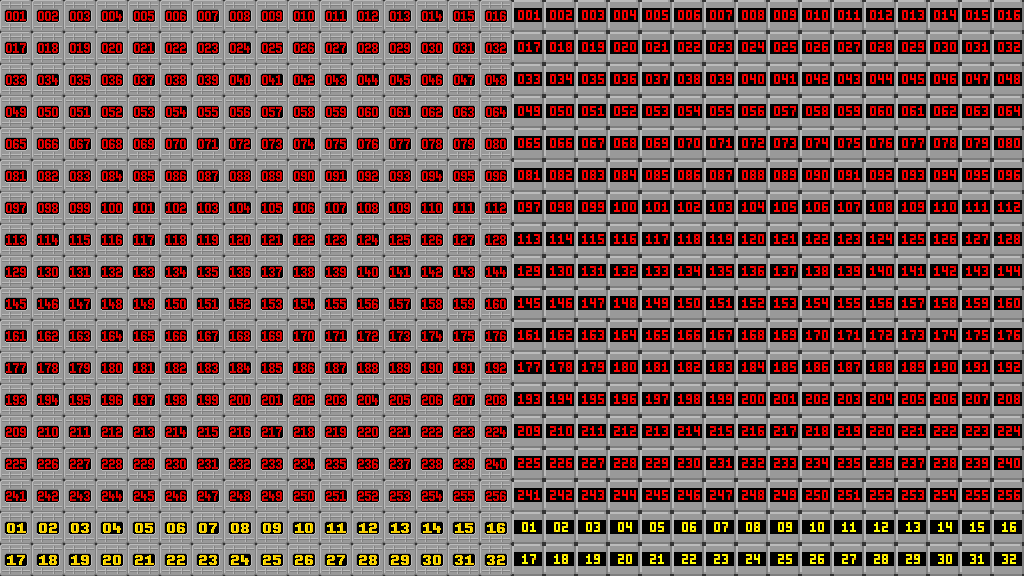
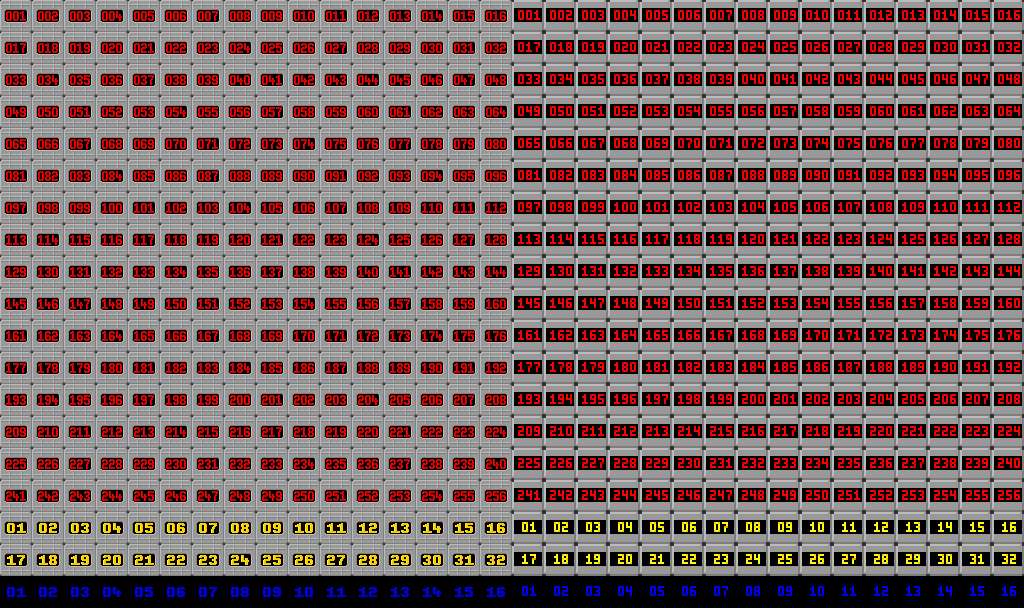
added additional empty space elements (not used yet)

diff --git a/src/main.c b/src/main.c
@@ -6278,6 +6278,86 @@ struct ElementNameInfo element_name_info[MAX_NUM_ELEMENTS + 1] =
     "spring",
     "spring (starts moving right)"
   },
+  {
+    "empty_space_1",
+    "empty_space",
+    "empty space 1"
+  },
+  {
+    "empty_space_2",
+    "empty_space",
+    "empty space 2"
+  },
+  {
+    "empty_space_3",
+    "empty_space",
+    "empty space 3"
+  },
+  {
+    "empty_space_4",
+    "empty_space",
+    "empty space 4"
+  },
+  {
+    "empty_space_5",
+    "empty_space",
+    "empty space 5"
+  },
+  {
+    "empty_space_6",
+    "empty_space",
+    "empty space 6"
+  },
+  {
+    "empty_space_7",
+    "empty_space",
+    "empty space 7"
+  },
+  {
+    "empty_space_8",
+    "empty_space",
+    "empty space 8"
+  },
+  {
+    "empty_space_9",
+    "empty_space",
+    "empty space 9"
+  },
+  {
+    "empty_space_10",
+    "empty_space",
+    "empty space 10"
+  },
+  {
+    "empty_space_11",
+    "empty_space",
+    "empty space 11"
+  },
+  {
+    "empty_space_12",
+    "empty_space",
+    "empty space 12"
+  },
+  {
+    "empty_space_13",
+    "empty_space",
+    "empty space 13"
+  },
+  {
+    "empty_space_14",
+    "empty_space",
+    "empty space 14"
+  },
+  {
+    "empty_space_15",
+    "empty_space",
+    "empty space 15"
+  },
+  {
+    "empty_space_16",
+    "empty_space",
+    "empty space 16"
+  },
 
   // --------------------------------------------------------------------------
   // "real" (and therefore drawable) runtime elements

diff --git a/src/main.h b/src/main.h
@@ -1912,7 +1912,16 @@
 #define EL_SPRING_LEFT			1215
 #define EL_SPRING_RIGHT			1216
 
-#define NUM_FILE_ELEMENTS		1217
+// ---------- begin of empty space elements section ---------------------------
+#define EL_EMPTY_SPACE_START		1217
+
+#include "conf_emp.h"	// include auto-generated data structure definitions
+
+#define NUM_EMPTY_SPACE_ELEMENTS	16
+#define EL_EMPTY_SPACE_END		1232
+// ---------- end of empty space elements section -----------------------------
+
+#define NUM_FILE_ELEMENTS		1233
 
 
 // "real" (and therefore drawable) runtime elements

diff --git a/src/conf_gfx.c b/src/conf_gfx.c
@@ -5788,6 +5788,7 @@ struct ConfigInfo image_config[] =
 #include "conf_chr.c"	// include auto-generated data structure definitions
 #include "conf_cus.c"	// include auto-generated data structure definitions
 #include "conf_grp.c"	// include auto-generated data structure definitions
+#include "conf_emp.c"	// include auto-generated data structure definitions
 
 
   // ==========================================================================
